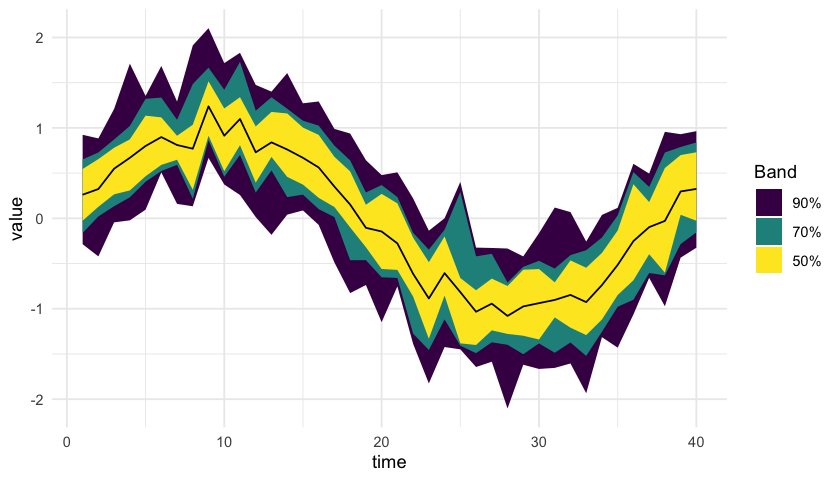
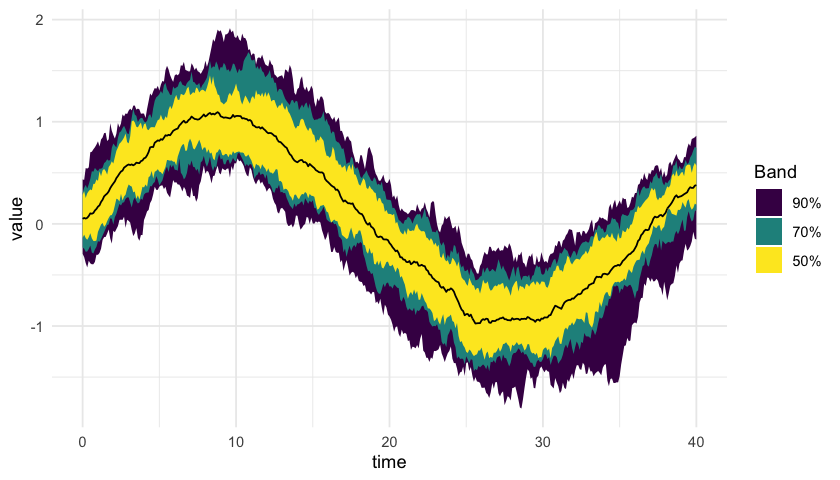
README: finer time grid and smoother simulated raters in the example figure

diff --git a/README.md b/README.md
@@ -33,8 +33,14 @@ pak::pak("jmgirard/chromodoris")
 ``` r
 library(chromodoris)
 set.seed(1)
-d <- expand.grid(id = 1:20, time = 1:40)
-d$value <- sin(d$time / 6) + rnorm(nrow(d), sd = 0.5)
+# 20 raters sampled 10 times per second over 40 seconds: a shared signal,
+# a per-rater offset, and slowly drifting per-rater noise.
+time <- seq(0, 40, by = 0.1)
+d <- expand.grid(time = time, id = 1:20)
+d$value <- sin(d$time / 6) +
+  rnorm(20, sd = 0.3)[d$id] +
+  ave(rnorm(nrow(d), sd = 0.06), d$id,
+      FUN = function(e) stats::filter(e, 0.985, method = "recursive"))
 chromodoris(d, id, time, value)
 ```
 
